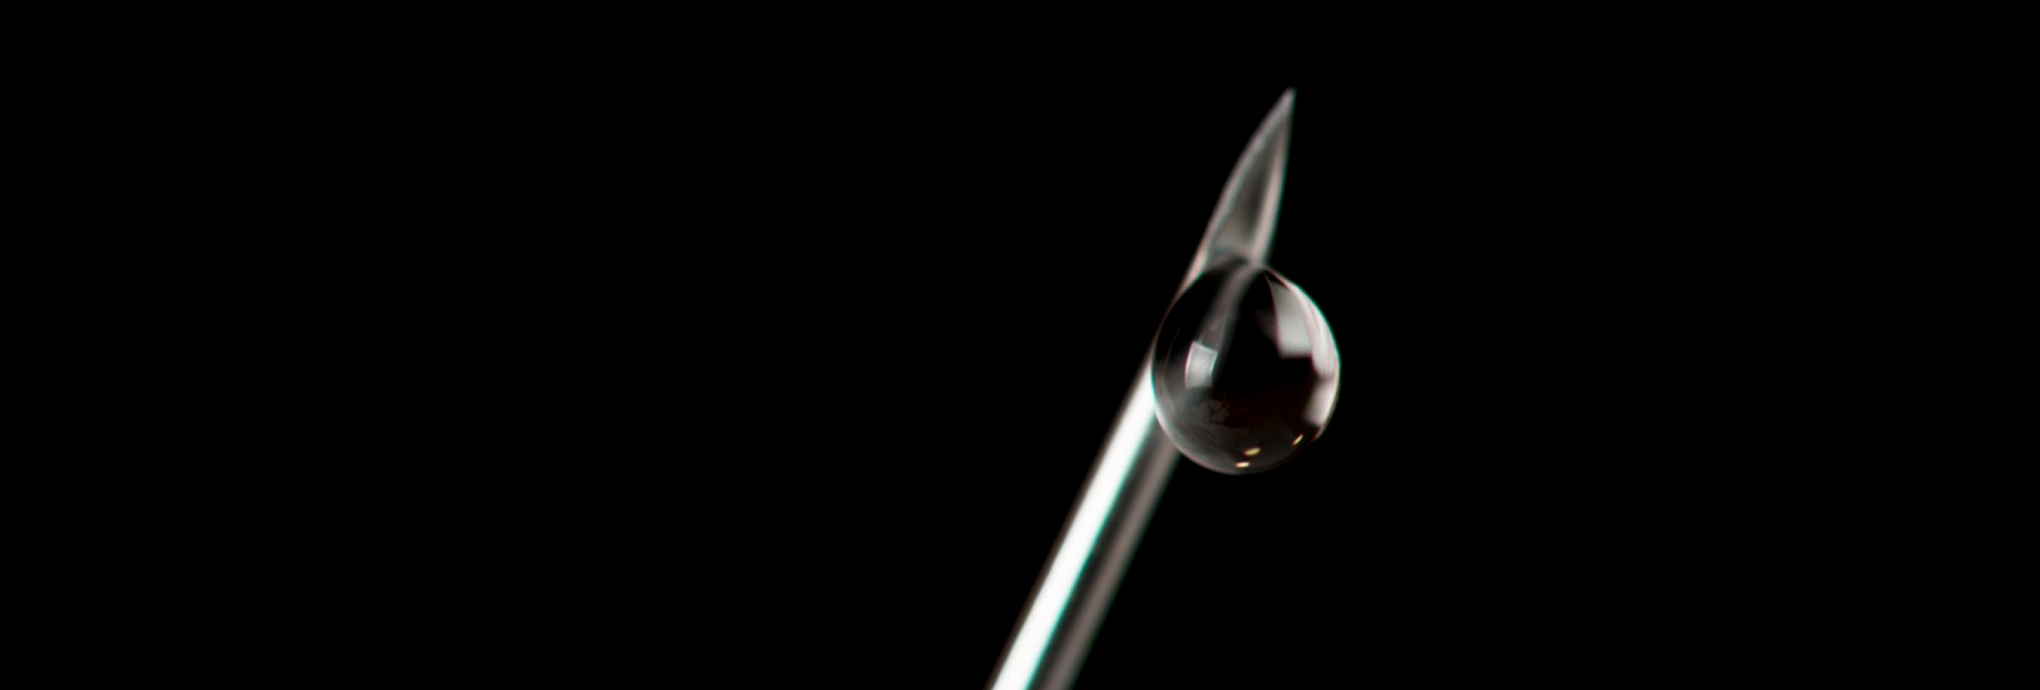
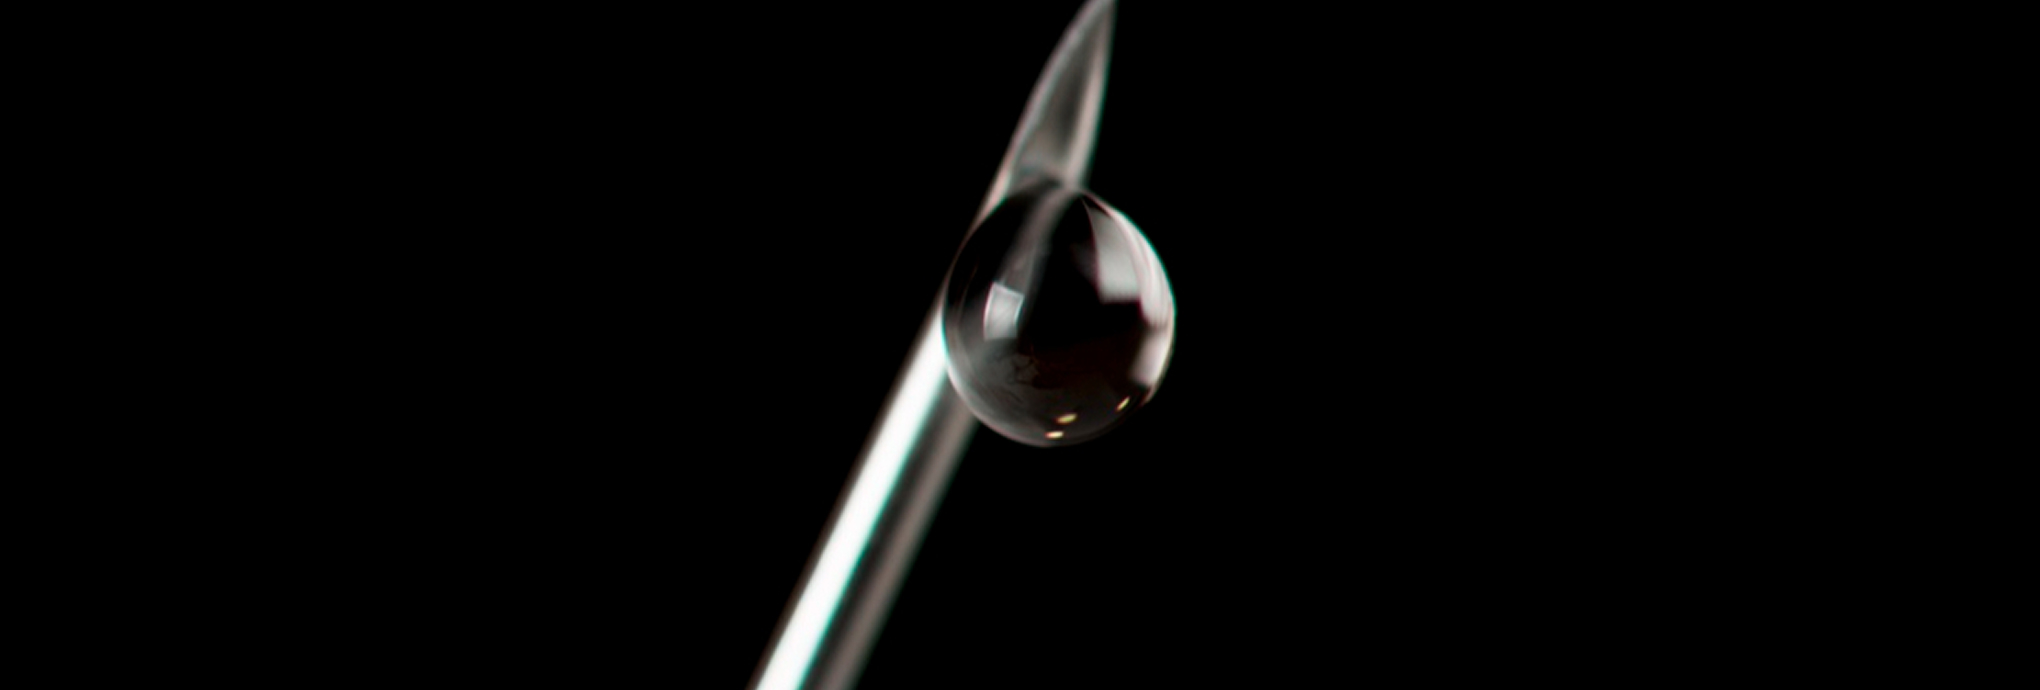
0505-02

Changed region(s): [[0.3706, 0.0, 0.6794, 1.0]]

diff --git a/src/app/globals.css b/src/app/globals.css
@@ -37,7 +37,7 @@ img { display: block; width: 100%; height: 100%; object-fit: cover; }
 /* .project-list { display: flex; flex-direction: column; } */
 .project-list { display: grid; flex-direction: column; grid-template-columns: repeat(2, 1fr); gap: 10px; }
 .project-card { display: block; position: relative; overflow: hidden; cursor: pointer; }
-.project-card__image { width: 100%; aspect-ratio: 16 / 5; overflow: hidden; background: #f0f0f0; }
+.project-card__image { width: 100%; aspect-ratio: 16 / 6; overflow: hidden; background: #f0f0f0; }
 .project-card__image img { transition: transform 0.5s ease; }
 .project-card:hover .project-card__image img { transform: scale(1.03); }
 .project-card__info { display: flex; justify-content: space-between; align-items: center; padding: 12px 12px 32px 0 ; border-bottom: 1px solid #eee; }